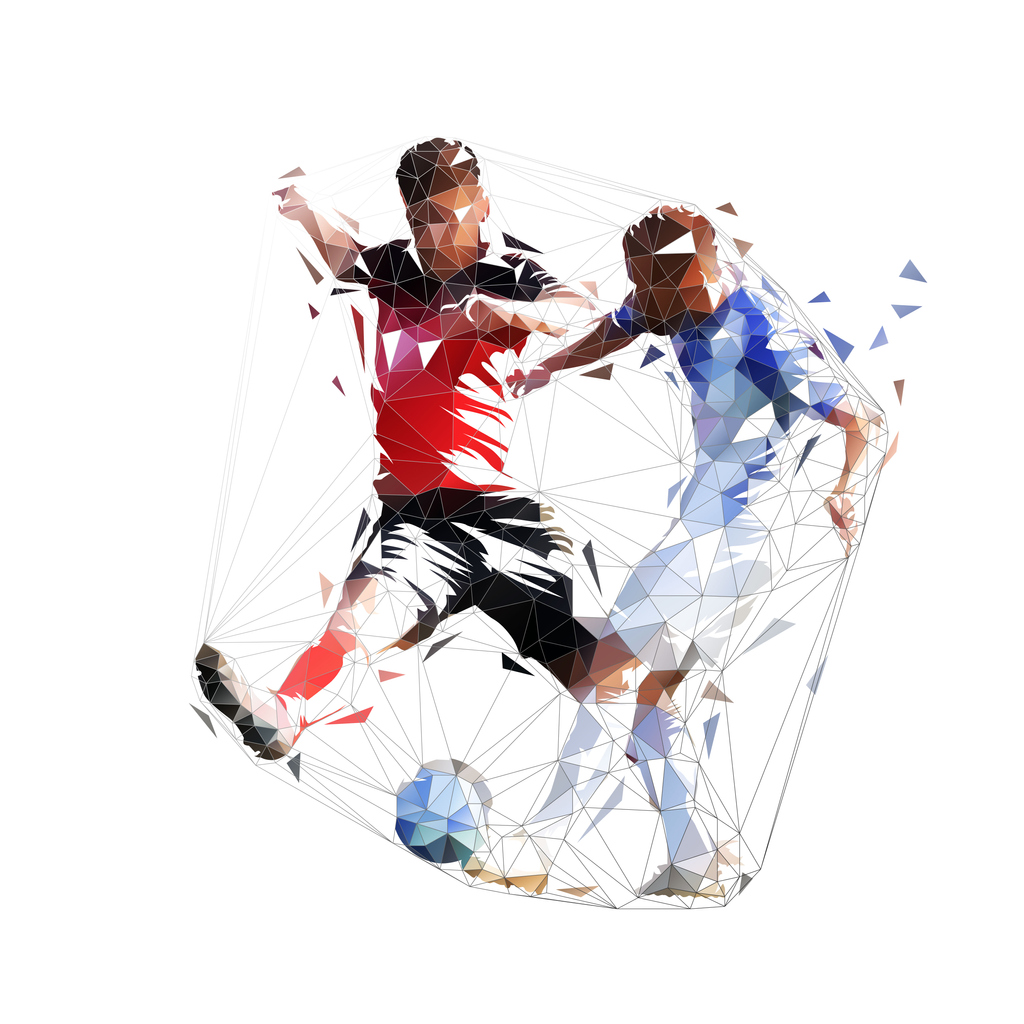
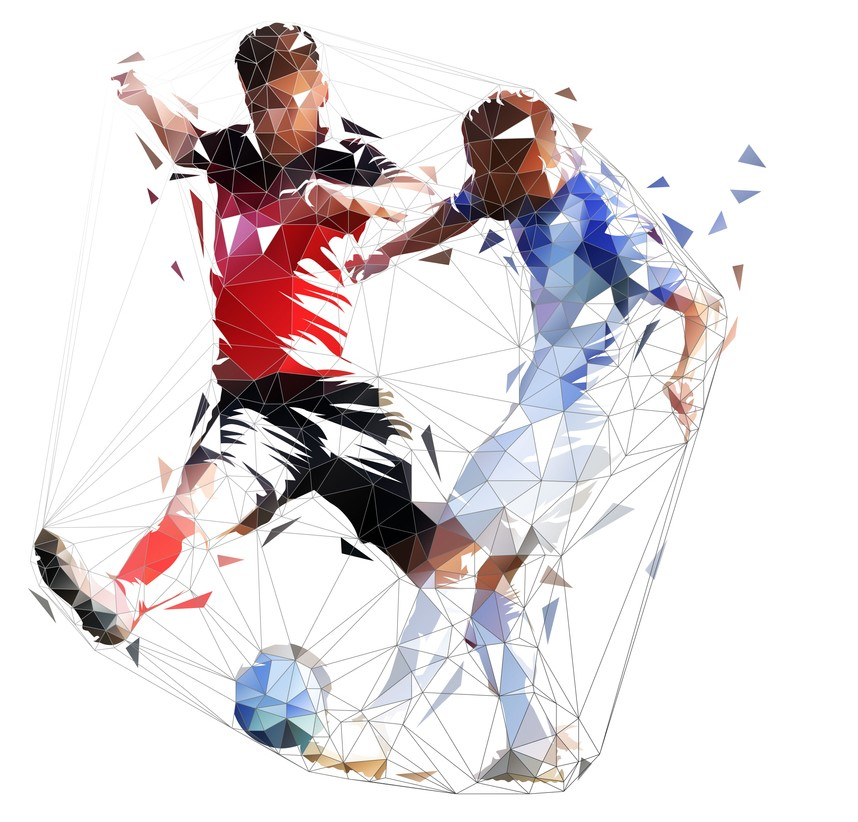
Add styling to create new team page

diff --git a/pages/teams/[teamId]/create-new-event.tsx b/pages/teams/[teamId]/create-new-event.tsx
@@ -29,7 +29,7 @@ const mainContainer = css`
 export const formContainer = css`
   display: flex;
   align-items: center;
-  margin: 0 100px 0 0;
+  margin: 30px 70px 30px 70px;
 
   form {
     display: flex;
@@ -146,8 +146,8 @@ export default function CreateEvent(props: Props) {
             <Image
               alt="Two soccer players fighting for a ball"
               src="/images/soccer-players.jpg"
-              width="800px"
-              height="800px"
+              width="600px"
+              height="600px"
             />
           </div>
           <form
